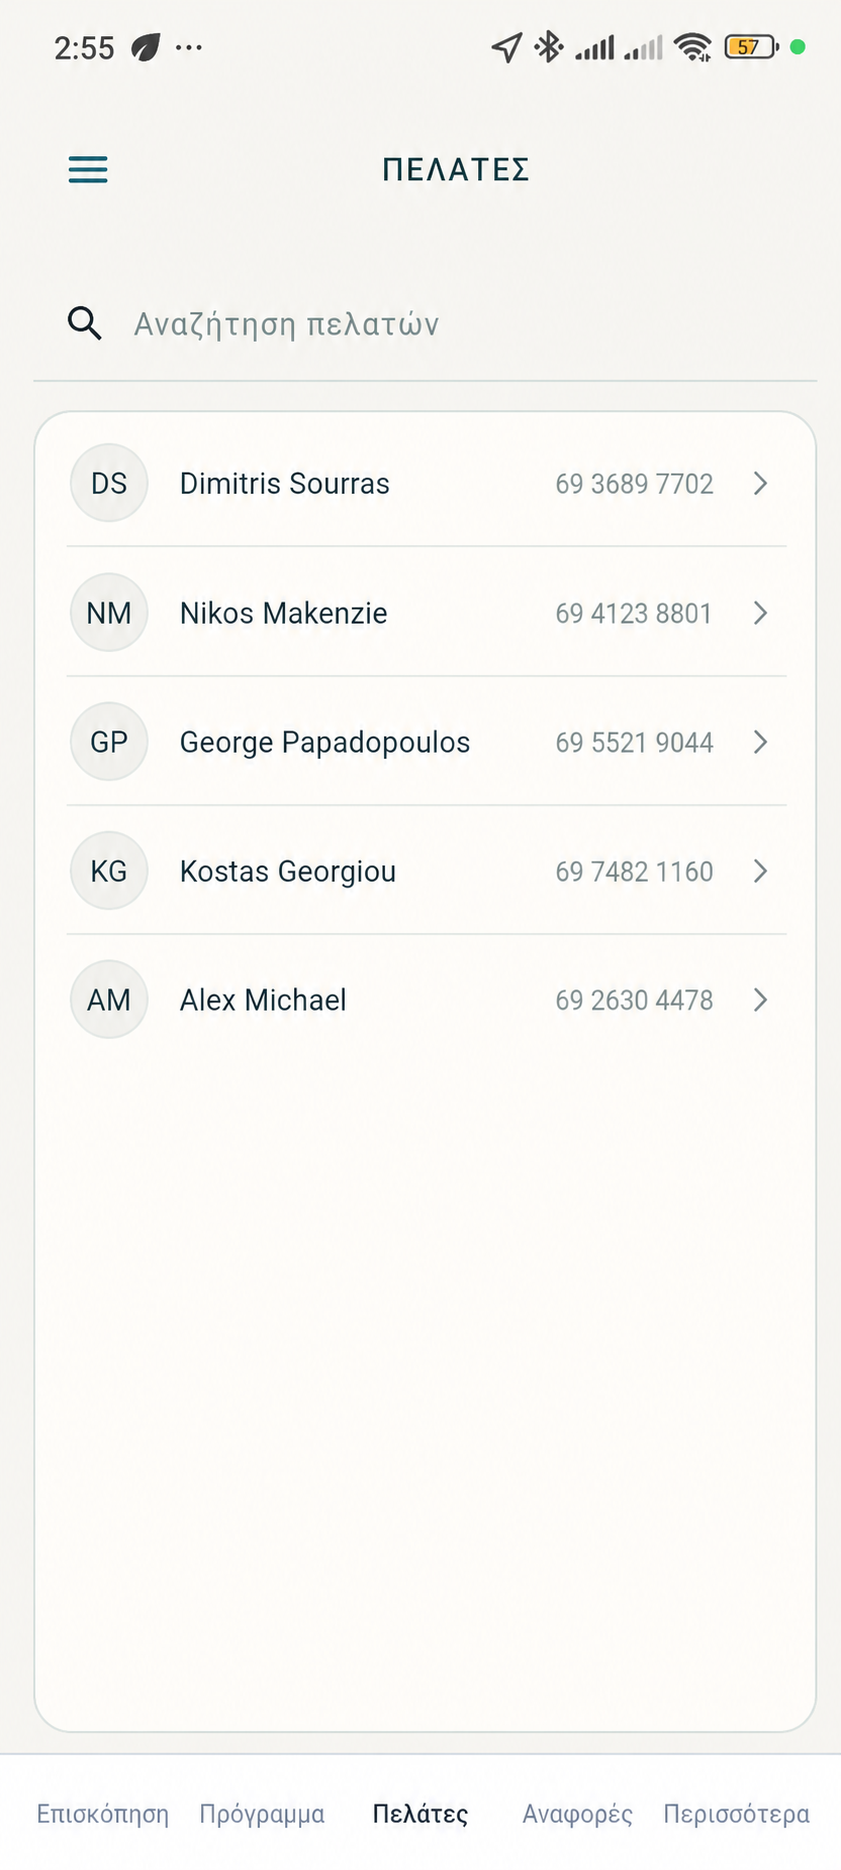
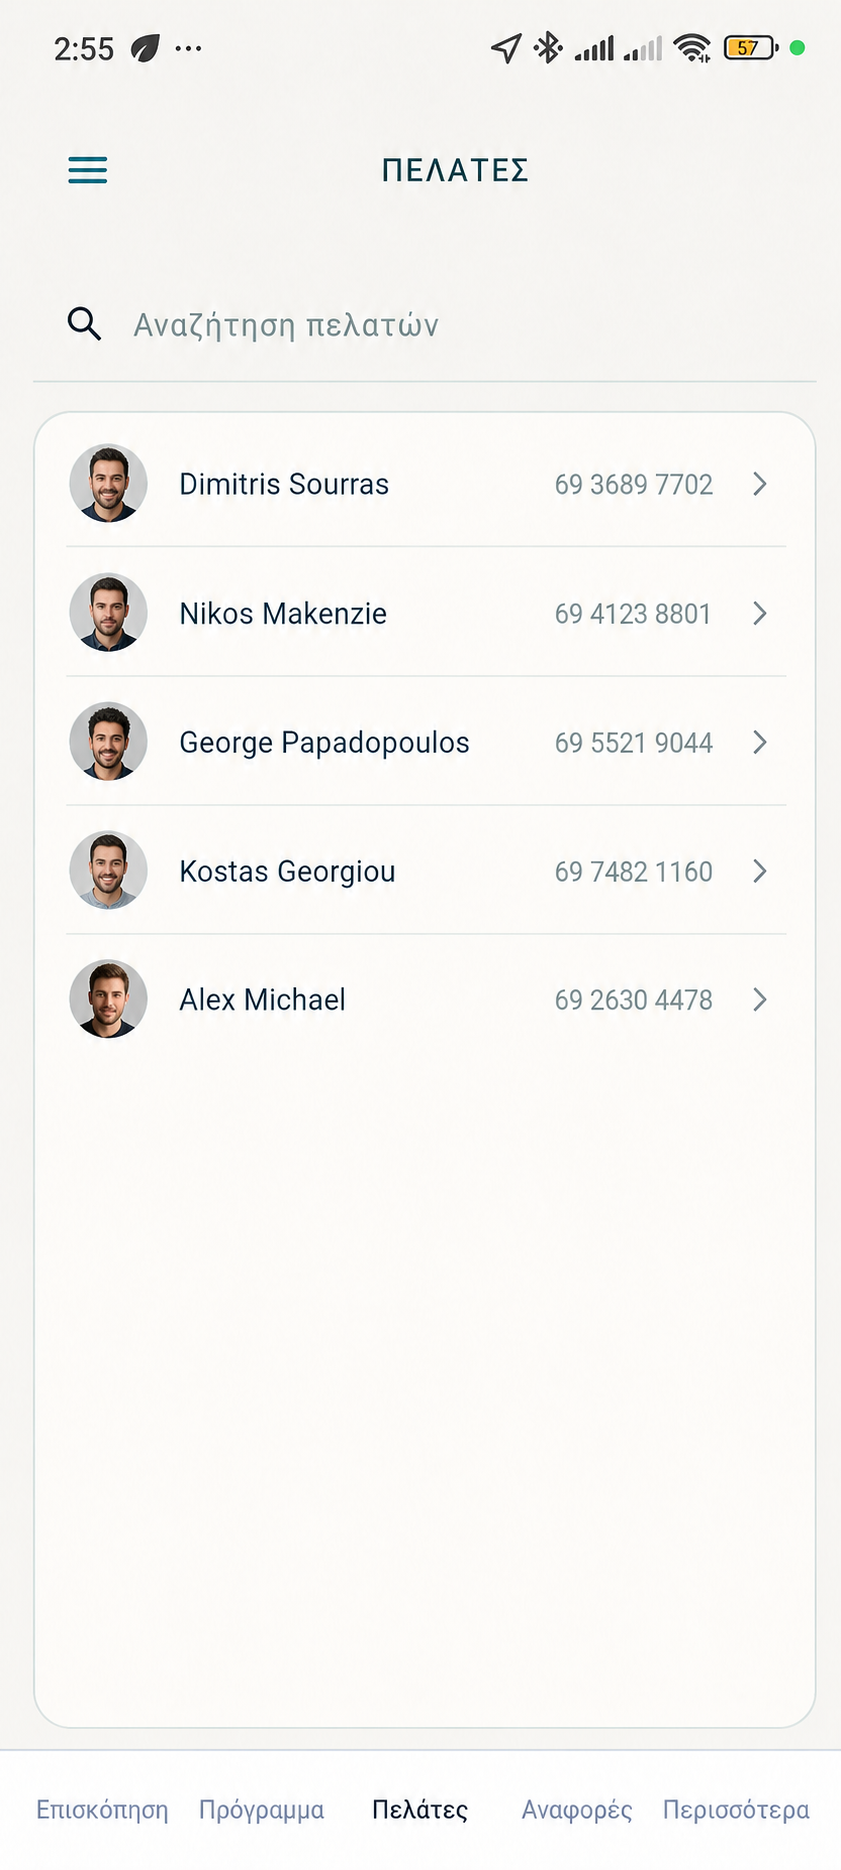
Add customer profile photos to clients demo

diff --git a/index.html b/index.html
@@ -203,7 +203,7 @@
         <div class="gallery-grid owner-gallery-grid">
           <figure><img src="./barberin-owner-overview-demo.png?v=20260815-cut" alt="Barberin Overview με γεμάτα metrics και επόμενα ραντεβού"><figcaption>Overview</figcaption></figure>
           <figure><img src="./barberin-owner-schedule-demo.png" alt="Barberin Schedule με ραντεβού και διαθέσιμα slots"><figcaption>Schedule και διαθέσιμα slots</figcaption></figure>
-          <figure><img src="./barberin-owner-clients.png" alt="Barberin Clients με τη λίστα πελατών"><figcaption>Clients</figcaption></figure>
+          <figure><img src="./barberin-owner-clients.png?v=20260815-profiles" alt="Barberin Clients με τη λίστα πελατών"><figcaption>Clients</figcaption></figure>
           <figure><img src="./barberin-owner-reports-demo.png" alt="Barberin Reports με γεμάτα metrics και καμπύλη εσόδων"><figcaption>Reports και insights</figcaption></figure>
         </div>
       </div>
